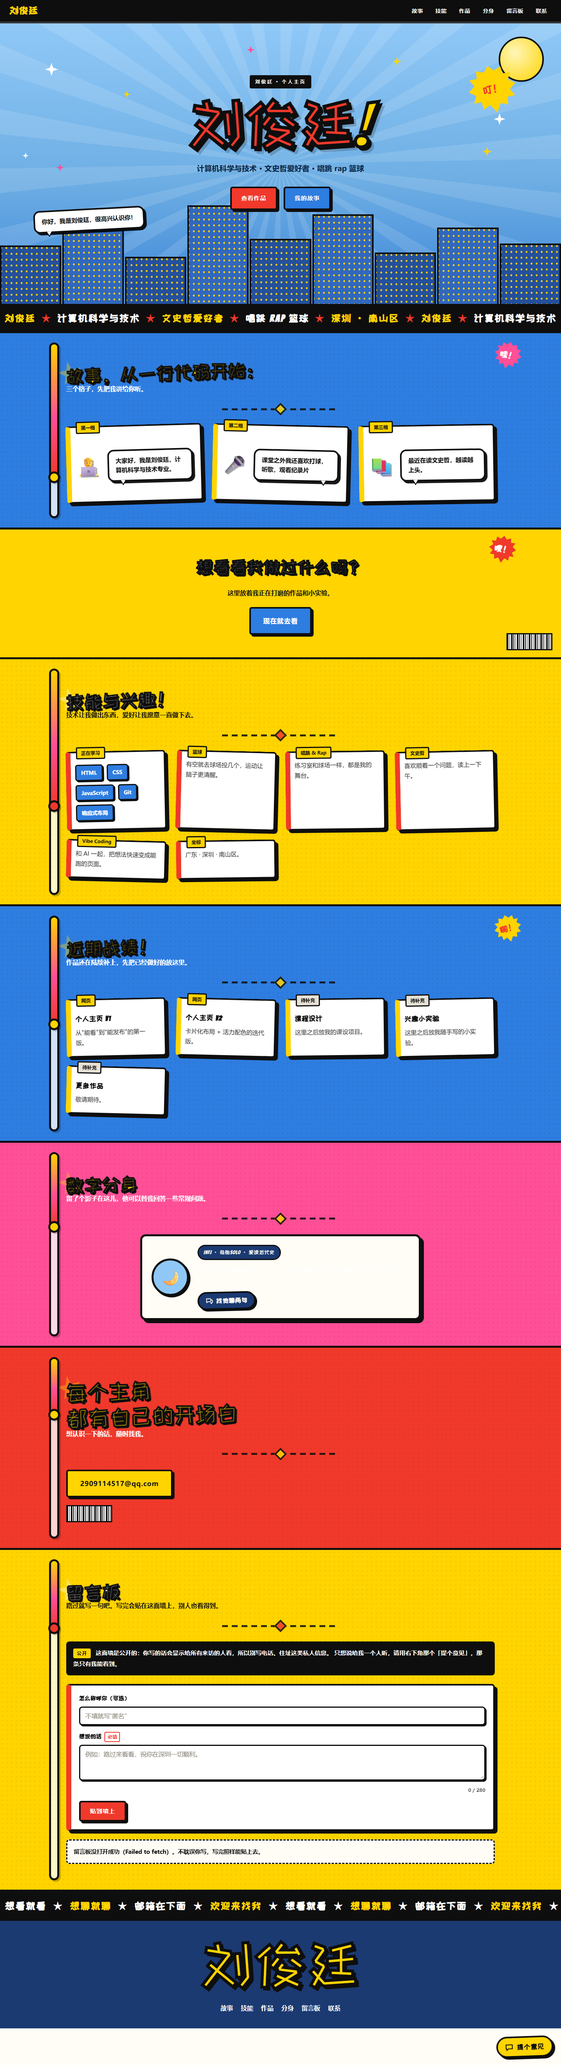
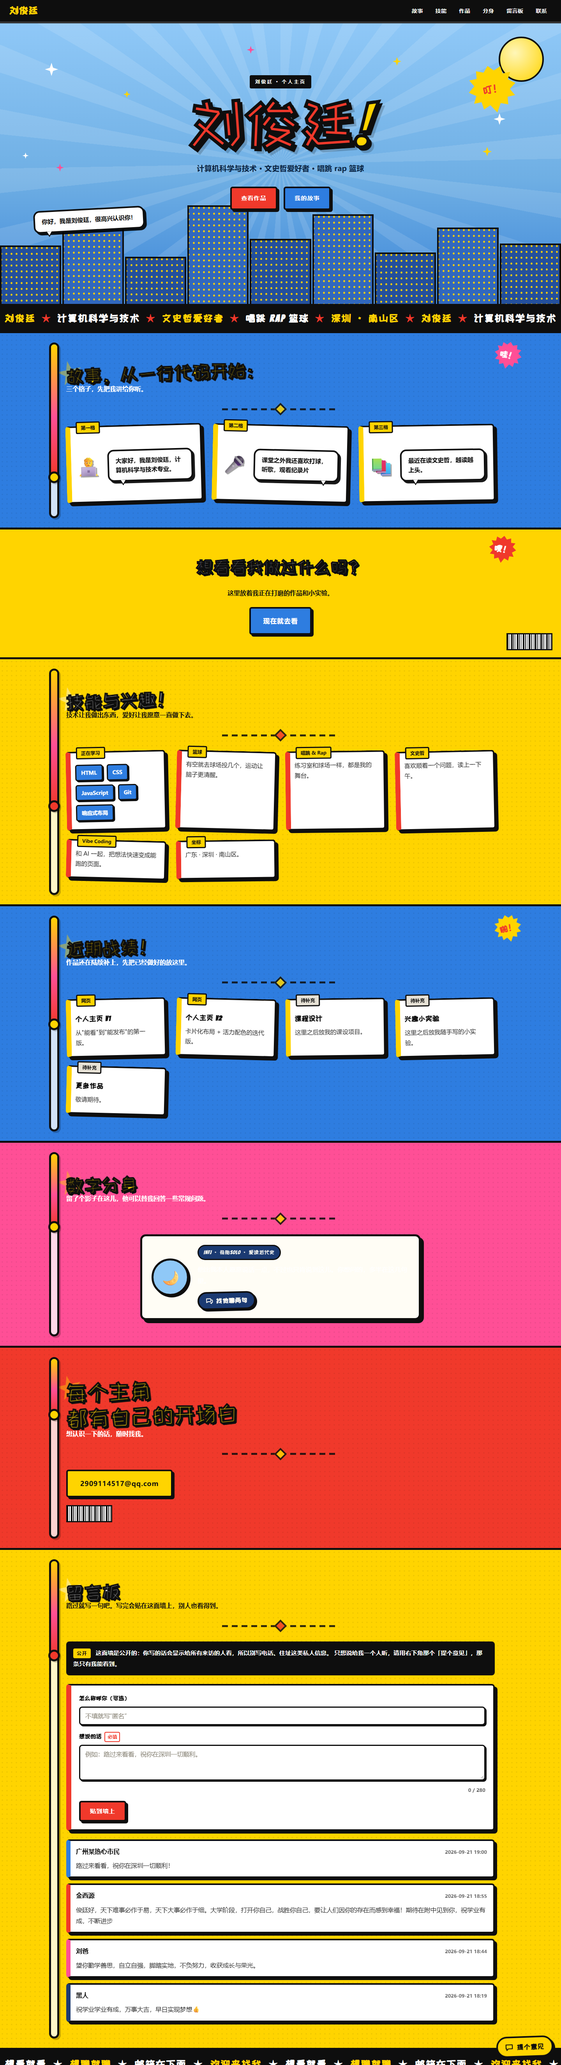
docs: 后端恢复落为事实（留言板 4 条真实留言），5 份文档与报告同步；修 check_board 计数 bug
- Supabase 项目 2026-10-06 恢复：只读复验（DNS 104.18.38.10 / CORS 200 / messages 读 4 行 /
  feedback 匿名写 401）写进文档与报告；C8「根因/解决/验证」改写，决策表 D-08 由「Modify + 待办」
  改为「Modify + 已闭环」
- 反馈口径按事实改写：私有反馈表单 0 条，公开留言板 4 条真实留言（id 5–8，2026-09-21），
  仍不拿自测冒充访客反馈
- tools/check_board.ps1：修 PS 5.1 ConvertFrom-Json 把 JSON 数组当成 1 个对象、导致行数恒为 1 的
  计数 bug（实测 rows = 4，fail = 0）
- 后端恢复后重拍 Before/After 整页图（留言板真实上屏）：v35-full-before.png / v4-full.png
- 报告重生成：报告.html 6/6 图内联；PDF 11 页 / 6 图（两份文件名同时更新）

Changed region(s): [[0.0, 0.8717, 1.0, 1.0], [0.0938, 0.7472, 0.125, 0.8094]]

diff --git a/outputs/报告.html b/outputs/报告.html
@@ -120,9 +120,9 @@ li { margin: 3px 0; }
 <ul>
 <li>现象：留言板和反馈都失败，而浏览器访问其它网站正常。</li>
 <li>排查：页内分别试"普通请求"和 <code>no-cors</code> 请求（两者都 <code>THREW</code> → <strong>不是 CORS</strong>）；域名解析返回 <strong>NXDOMAIN</strong>（同一解析器对 <code>supabase.co</code>、<code>api.supabase.com</code> 均正常，只有项目主机解析不到）。</li>
-<li>根因：项目侧不可达（免费额度闲置被暂停一类），<strong>不是代码问题</strong>。</li>
-<li>解决：① 站点侧先做降级（C7），保证"后台不在也不难看"；② 项目本身由我本人去控制台确认/恢复（不拿推测当结论）；③ 恢复前后只做<strong>只读</strong>复验，不再往公开墙上写测试数据。</li>
-<li>验证（恢复后执行）：CORS 预检 200 / 留言板读 200 / 匿名写反馈仍 401。</li>
+<li>根因：项目侧被暂停（免费额度闲置一类），<strong>不是代码问题</strong>。</li>
+<li>解决：① 站点侧先做降级（C7），保证后台不在时也不难看；② 在 Supabase 控制台恢复项目（不拿推测当结论）；③ 全程只做<strong>只读</strong>复验，不再往公开墙上写测试数据。</li>
+<li>验证（2026-10-06 恢复后实测）：项目主机解析到 <code>104.18.38.10</code>；CORS 预检 200（<code>allow-origin: *</code>）；<code>messages</code> 读 200 共 <strong>4 行</strong>；匿名写 <code>feedback</code> 仍 401；匿名 PATCH / DELETE 均 401；再把页面真机渲染一遍，DOM 里 4 条留言全部上屏、降级提示不再出现。</li>
 </ul>
 <p><strong>C9. 自己的截图工具在慢请求上崩掉（工具 bug）</strong></p>
 <ul>
@@ -133,15 +133,15 @@ li { margin: 3px 0; }
 </ul>
 <p><strong>一条经验总结：</strong> C1、C2 都是"看起来坏了"，先复现再动手，等于省掉了两次无意义的改样式。<strong>验证优先于修改。</strong></p>
 <h2>d) 收集到的反馈与决策</h2>
-<p><strong>来源如实说明：</strong> 反馈入口与服务端于 <strong>2026-10-06 上线</strong>，同日发现项目侧不可达（C8），因此<strong>目前外部反馈为 0 条</strong>。下表是<strong>自测</strong>发现的问题与决策，每条都标了真实来源 —— 不拿自测冒充访客意见。完整表见 <code>docs\V4-反馈决策表.md</code>。</p>
-<table><thead><tr><th>编号</th><th>反馈/发现</th><th>来源</th><th>决定</th><th>理由</th></tr></thead><tbody><tr><td>D-01</td><td>手机端导航、标题被裁</td><td>自测（截图）</td><td><strong>Reject + 改方法</strong></td><td>复现证明是截图工具伪影，站点在真 375 下正常</td></tr><tr><td>D-02</td><td>整页截图首屏异常长</td><td>自测（截图）</td><td><strong>Reject + 改口径</strong></td><td><code>.hero</code> 用 <code>90vh</code> 是设计选择，问题在拍摄方式</td></tr><tr><td>D-03</td><td>作品区口径过时、自相矛盾</td><td>自测</td><td><strong>Accept</strong></td><td>影响面大、改动成本低，与新街区一致性优先</td></tr><tr><td>D-04</td><td>访客看到英文 <code>Failed to fetch</code></td><td>自测</td><td><strong>Accept</strong></td><td>一行级改动，直接改善观感</td></tr><tr><td>D-05</td><td>反馈上报的版本号仍是 V3.5</td><td>自测</td><td><strong>Accept</strong></td><td>不改会让之后所有意见贴错版本</td></tr><tr><td>D-06</td><td>新文案缺字</td><td>自测</td><td><strong>Accept</strong></td><td>重建子集即可，且仍不依赖外部服务</td></tr><tr><td>D-07</td><td>单文件漏内联图片</td><td>自测</td><td><strong>Accept</strong></td><td>离线交付是硬需求，根因在脚本编码</td></tr><tr><td>D-08</td><td>后台不可达</td><td>自测（外部依赖）</td><td><strong>Modify + 待办</strong></td><td>站点侧先降级；项目恢复由我本人处理</td></tr><tr><td>D-09</td><td>手机真机完整提交路径未覆盖</td><td>自测</td><td><strong>Delay</strong></td><td>需要真机 + 恢复后的后台，本轮无法诚实完成</td></tr><tr><td>D-10</td><td>外部访客反馈 0 条</td><td>事实</td><td><strong>Delay</strong></td><td>不编造；入口已就绪，收到即按本表流程处理</td></tr></tbody></table>
+<p><strong>来源如实说明：</strong> 反馈入口与服务端于 <strong>2026-10-06 上线</strong>，同日项目侧一度被暂停（C8），当天在控制台恢复并复验通过。<strong>私有的反馈表单目前 0 条</strong>；<strong>公开留言板上有 4 条真实留言</strong>（<code>id 5–8</code>，2026-09-21 起陆续留下：家人、师长与一位过路访客），我自己的测试留言早已清理。下表是<strong>自测</strong>发现的问题与决策，每条都标了真实来源 —— 不拿自测冒充访客意见。完整表见 <code>docs\V4-反馈决策表.md</code>。</p>
+<table><thead><tr><th>编号</th><th>反馈/发现</th><th>来源</th><th>决定</th><th>理由</th></tr></thead><tbody><tr><td>D-01</td><td>手机端导航、标题被裁</td><td>自测（截图）</td><td><strong>Reject + 改方法</strong></td><td>复现证明是截图工具伪影，站点在真 375 下正常</td></tr><tr><td>D-02</td><td>整页截图首屏异常长</td><td>自测（截图）</td><td><strong>Reject + 改口径</strong></td><td><code>.hero</code> 用 <code>90vh</code> 是设计选择，问题在拍摄方式</td></tr><tr><td>D-03</td><td>作品区口径过时、自相矛盾</td><td>自测</td><td><strong>Accept</strong></td><td>影响面大、改动成本低，与新街区一致性优先</td></tr><tr><td>D-04</td><td>访客看到英文 <code>Failed to fetch</code></td><td>自测</td><td><strong>Accept</strong></td><td>一行级改动，直接改善观感</td></tr><tr><td>D-05</td><td>反馈上报的版本号仍是 V3.5</td><td>自测</td><td><strong>Accept</strong></td><td>不改会让之后所有意见贴错版本</td></tr><tr><td>D-06</td><td>新文案缺字</td><td>自测</td><td><strong>Accept</strong></td><td>重建子集即可，且仍不依赖外部服务</td></tr><tr><td>D-07</td><td>单文件漏内联图片</td><td>自测</td><td><strong>Accept</strong></td><td>离线交付是硬需求，根因在脚本编码</td></tr><tr><td>D-08</td><td>后台不可达</td><td>自测（外部依赖）</td><td><strong>Modify + 已闭环</strong></td><td>站点侧先降级；项目当天恢复，只读复验通过（CORS 200 / 读 4 行 / 写反馈 401）</td></tr><tr><td>D-09</td><td>手机真机完整提交路径未覆盖</td><td>自测</td><td><strong>Delay</strong></td><td>需要真机 + 恢复后的后台，本轮无法诚实完成</td></tr><tr><td>D-10</td><td>反馈表单 0 条（留言板已有 4 条真实留言）</td><td>事实</td><td><strong>Delay</strong></td><td>不编造；入口已就绪，收到即按本表流程处理</td></tr></tbody></table>
 <p><strong>优先级口径：</strong> 影响面（多少人会碰到）× 改动成本（要动几条链路）。D-03 属于"影响高 × 成本低"，所以优先做；懒加载属于"影响低 × 成本高（动导出/同步/截图三条链路）"，因此延后。</p>
 <p><strong>真实反馈进来后怎么走：</strong> ① 先复现（自己能不能看到同样的问题）→ ② 判定类别（看不懂 / 不好找 / 用着别扭 / 内容错）→ ③ 四种决定选一个（Accept / Modify / Delay / Reject，并写明理由）→ ④ 改完跑一遍回归清单 → ⑤ 把结论追加到决策表。</p>
 <h2>e) 回归测试</h2>
 <p><strong>自动化三项（可复跑）：</strong></p>
 <table><thead><tr><th>手段</th><th>结果</th></tr></thead><tbody><tr><td><code>verify_v35.ps1 -SiteOnly</code></td><td>FAIL count = 0（10 组：结构、JS↔HTML 契约、样式、安全等）</td></tr><tr><td><code>sync_site.ps1</code> 同步发布根</td><td>4 项拷完、无残留文件、自动校验 FAIL count = 0（20 个文件）</td></tr><tr><td><code>export_single_file.ps1</code></td><td><code>images ok 4/4 as data URI</code>，产物体积 513909 B</td></tr></tbody></table>
 <p><strong>课件六项（桌面 + 手机）：</strong></p>
-<table><thead><tr><th>项</th><th>结果</th></tr></thead><tbody><tr><td>桌面布局</td><td>真 1440×900 视口（CDP）：8 个区块 + 页脚纵向排列正确，<code>docScrollH=6943</code>、<code>overRight=none</code>；窗口口径下 <code>doc=6858</code></td></tr><tr><td>手机布局</td><td>真 375×812：<code>docScrollW=375</code>、<code>docScrollH=9004</code>、<code>overRight=none</code>、导航换 2 行共 7 项全可见（<code>navScroll=272/272</code>）、首屏标题 <code>x20..355</code></td></tr><tr><td>导航与按钮</td><td>桌面/手机各 7 个导航项全部可点且指向存在；"提个意见"可打开弹窗；留言板按钮文案正确</td></tr><tr><td>图片与链接</td><td>4 张缩略图全部加载（单文件版为 data URI）；邮箱 <code>mailto:</code> 1 处，无其它外链</td></tr><tr><td>反馈表单</td><td>弹窗字段、必填校验、版本号自动附带 V4；留言板必填校验与字数计数正常</td></tr><tr><td>加载速度</td><td>本地 20 个文件全静态，无 CDN、无框架；字体 2 个子集共约 56 KB</td></tr></tbody></table>
+<table><thead><tr><th>项</th><th>结果</th></tr></thead><tbody><tr><td>桌面布局</td><td>真 1440×900 视口（CDP）：8 个区块 + 页脚纵向排列正确，<code>docScrollH=6943</code>、<code>overRight=none</code>；窗口口径下 <code>doc=6858</code></td></tr><tr><td>手机布局</td><td>真 375×812：<code>docScrollW=375</code>、<code>docScrollH=9004</code>、<code>overRight=none</code>、导航换 2 行共 7 项全可见（<code>navScroll=272/272</code>）、首屏标题 <code>x20..355</code></td></tr><tr><td>导航与按钮</td><td>桌面/手机各 7 个导航项全部可点且指向存在；"提个意见"可打开弹窗；留言板按钮文案正确</td></tr><tr><td>图片与链接</td><td>4 张缩略图全部加载（单文件版为 data URI）；邮箱 <code>mailto:</code> 1 处，无其它外链</td></tr><tr><td>反馈表单</td><td>弹窗字段、必填校验、版本号自动附带 V4；留言板必填校验与字数计数正常；真机渲染下 4 条真实留言全部上屏、降级提示消失（<code>check_board.ps1</code> fail=0 / rows=4，页内 DOM 4/4）</td></tr><tr><td>加载速度</td><td>本地 20 个文件全静态，无 CDN、无框架；字体 2 个子集共约 56 KB</td></tr></tbody></table>
 <p><strong>未覆盖（如实说明）：</strong> 手机真机完整提交路径（D-09）、弱网/低速网络的性能实测、后台恢复后的真实提交（只做只读复验）。详细清单见 <code>docs\V4-回归测试清单.md</code>。</p>
 <h2>f) 版本记录与可回退点</h2>
 <table><thead><tr><th>版本</th><th>提交</th><th>可回退方式</th></tr></thead><tbody><tr><td>V1</td><td><code>f7aa66e</code></td><td><code>git checkout f7aa66e</code></td></tr><tr><td>V2</td><td><code>4062811</code></td><td><code>git checkout 4062811</code></td></tr><tr><td>V3</td><td><code>dcdb257</code></td><td><code>git checkout dcdb257</code></td></tr><tr><td>V3.5</td><td><code>6bb6ec2</code></td><td><code>git checkout 6bb6ec2</code></td></tr><tr><td><strong>V4</strong></td><td><strong><code>7a76419</code></strong></td><td>当前 <code>main</code></td></tr></tbody></table>
@@ -150,9 +150,9 @@ li { margin: 3px 0; }
 <ul>
 <li><strong>有价值的改动</strong>是让"过程"可被看见的那两件：迭代历程区块、版本号单一来源；不是"改了更多地方"。</li>
 <li><strong>差点做错的</strong>是 C1/C2：两次都准备改样式，先复现才发现错在测量工具。最值钱的经验是"先复现，再动手"。</li>
-<li><strong>卡点</strong>前三名：看不到真相（截图工具两次骗我）、编码陷阱（PS 5.1 把无 BOM 脚本按 ANSI 解析）、外部依赖说没就没（后台被暂停）。后者说明"能演示"和"能用"是两回事，页面必须有降级路径。</li>
+<li><strong>卡点</strong>前三名：看不到真相（截图工具两次骗我）、编码陷阱（PS 5.1 把无 BOM 脚本按 ANSI 解析）、外部依赖说没就没（后台被暂停）。第三件当天恢复并复验通过，但它说明「能演示」和「能用」是两回事，页面必须有降级路径。</li>
 <li><strong>"真的更好了"靠证据</strong>：可复跑的校验 + 同口径 Before/After，而不是"看着顺眼"。</li>
-<li><strong>外部反馈仍是 0 条</strong>，我把它写在明面上而不是拿自测凑数 —— 这是本轮最大的待补缺口。</li>
+<li><strong>反馈表单仍是 0 条</strong>（公开留言板倒是有 4 条真实留言），我把它写在明面上而不是拿自测凑数 —— 这是本轮最大的待补缺口。</li>
 </ul>
 <p>完整的五问反思见 <code>docs\V4-反思.md</code>。</p>
 <h2>h) 附录</h2>

diff --git a/outputs/个人主页-V1到V4-总汇总.md b/outputs/个人主页-V1到V4-总汇总.md
@@ -131,9 +131,9 @@
 **C8. 后台本身连不上了（外部依赖）**
 - 现象：留言板和反馈都失败，而浏览器访问其它网站正常。
 - 排查：页内分别试"普通请求"和 `no-cors` 请求（两者都 `THREW` → **不是 CORS**）；域名解析返回 **NXDOMAIN**（同一解析器对 `supabase.co`、`api.supabase.com` 均正常，只有项目主机解析不到）。
-- 根因：项目侧不可达（免费额度闲置被暂停一类），**不是代码问题**。
-- 解决：① 站点侧先做降级（C7），保证"后台不在也不难看"；② 项目本身由我本人去控制台确认/恢复（不拿推测当结论）；③ 恢复前后只做**只读**复验，不再往公开墙上写测试数据。
-- 验证（恢复后执行）：CORS 预检 200 / 留言板读 200 / 匿名写反馈仍 401。
+- 根因：项目侧被暂停（免费额度闲置一类），**不是代码问题**。
+- 解决：① 站点侧先做降级（C7），保证后台不在时也不难看；② 在 Supabase 控制台恢复项目（不拿推测当结论）；③ 全程只做**只读**复验，不再往公开墙上写测试数据。
+- 验证（2026-10-06 恢复后实测）：项目主机解析到 `104.18.38.10`；CORS 预检 200（`allow-origin: *`）；`messages` 读 200 共 **4 行**；匿名写 `feedback` 仍 401；匿名 PATCH / DELETE 均 401；再把页面真机渲染一遍，DOM 里 4 条留言全部上屏、降级提示不再出现。
 
 **C9. 自己的截图工具在慢请求上崩掉（工具 bug）**
 - 现象：跑"页内等 3 秒"的探针时，CDP 客户端抛 `AggregateException`。
@@ -145,7 +145,7 @@
 
 ## d) 收集到的反馈与决策
 
-**来源如实说明：** 反馈入口与服务端于 **2026-10-06 上线**，同日发现项目侧不可达（C8），因此**目前外部反馈为 0 条**。下表是**自测**发现的问题与决策，每条都标了真实来源 —— 不拿自测冒充访客意见。完整表见 `docs\V4-反馈决策表.md`。
+**来源如实说明：** 反馈入口与服务端于 **2026-10-06 上线**，同日项目侧一度被暂停（C8），当天在控制台恢复并复验通过。**私有的反馈表单目前 0 条**；**公开留言板上有 4 条真实留言**（`id 5–8`，2026-09-21 起陆续留下：家人、师长与一位过路访客），我自己的测试留言早已清理。下表是**自测**发现的问题与决策，每条都标了真实来源 —— 不拿自测冒充访客意见。完整表见 `docs\V4-反馈决策表.md`。
 
 | 编号 | 反馈/发现 | 来源 | 决定 | 理由 |
 | --- | --- | --- | --- | --- |
@@ -156,9 +156,9 @@
 | D-05 | 反馈上报的版本号仍是 V3.5 | 自测 | **Accept** | 不改会让之后所有意见贴错版本 |
 | D-06 | 新文案缺字 | 自测 | **Accept** | 重建子集即可，且仍不依赖外部服务 |
 | D-07 | 单文件漏内联图片 | 自测 | **Accept** | 离线交付是硬需求，根因在脚本编码 |
-| D-08 | 后台不可达 | 自测（外部依赖） | **Modify + 待办** | 站点侧先降级；项目恢复由我本人处理 |
+| D-08 | 后台不可达 | 自测（外部依赖） | **Modify + 已闭环** | 站点侧先降级；项目当天恢复，只读复验通过（CORS 200 / 读 4 行 / 写反馈 401） |
 | D-09 | 手机真机完整提交路径未覆盖 | 自测 | **Delay** | 需要真机 + 恢复后的后台，本轮无法诚实完成 |
-| D-10 | 外部访客反馈 0 条 | 事实 | **Delay** | 不编造；入口已就绪，收到即按本表流程处理 |
+| D-10 | 反馈表单 0 条（留言板已有 4 条真实留言） | 事实 | **Delay** | 不编造；入口已就绪，收到即按本表流程处理 |
 
 **优先级口径：** 影响面（多少人会碰到）× 改动成本（要动几条链路）。D-03 属于"影响高 × 成本低"，所以优先做；懒加载属于"影响低 × 成本高（动导出/同步/截图三条链路）"，因此延后。
 
@@ -182,7 +182,7 @@
 | 手机布局 | 真 375×812：`docScrollW=375`、`docScrollH=9004`、`overRight=none`、导航换 2 行共 7 项全可见（`navScroll=272/272`）、首屏标题 `x20..355` |
 | 导航与按钮 | 桌面/手机各 7 个导航项全部可点且指向存在；"提个意见"可打开弹窗；留言板按钮文案正确 |
 | 图片与链接 | 4 张缩略图全部加载（单文件版为 data URI）；邮箱 `mailto:` 1 处，无其它外链 |
-| 反馈表单 | 弹窗字段、必填校验、版本号自动附带 V4；留言板必填校验与字数计数正常 |
+| 反馈表单 | 弹窗字段、必填校验、版本号自动附带 V4；留言板必填校验与字数计数正常；真机渲染下 4 条真实留言全部上屏、降级提示消失（`check_board.ps1` fail=0 / rows=4，页内 DOM 4/4） |
 | 加载速度 | 本地 20 个文件全静态，无 CDN、无框架；字体 2 个子集共约 56 KB |
 
 **未覆盖（如实说明）：** 手机真机完整提交路径（D-09）、弱网/低速网络的性能实测、后台恢复后的真实提交（只做只读复验）。详细清单见 `docs\V4-回归测试清单.md`。
@@ -203,9 +203,9 @@
 
 - **有价值的改动**是让"过程"可被看见的那两件：迭代历程区块、版本号单一来源；不是"改了更多地方"。
 - **差点做错的**是 C1/C2：两次都准备改样式，先复现才发现错在测量工具。最值钱的经验是"先复现，再动手"。
-- **卡点**前三名：看不到真相（截图工具两次骗我）、编码陷阱（PS 5.1 把无 BOM 脚本按 ANSI 解析）、外部依赖说没就没（后台被暂停）。后者说明"能演示"和"能用"是两回事，页面必须有降级路径。
+- **卡点**前三名：看不到真相（截图工具两次骗我）、编码陷阱（PS 5.1 把无 BOM 脚本按 ANSI 解析）、外部依赖说没就没（后台被暂停）。第三件当天恢复并复验通过，但它说明「能演示」和「能用」是两回事，页面必须有降级路径。
 - **"真的更好了"靠证据**：可复跑的校验 + 同口径 Before/After，而不是"看着顺眼"。
-- **外部反馈仍是 0 条**，我把它写在明面上而不是拿自测凑数 —— 这是本轮最大的待补缺口。
+- **反馈表单仍是 0 条**（公开留言板倒是有 4 条真实留言），我把它写在明面上而不是拿自测凑数 —— 这是本轮最大的待补缺口。
 
 完整的五问反思见 `docs\V4-反思.md`。
 

diff --git a/docs/V4-反馈决策表.md b/docs/V4-反馈决策表.md
@@ -2,7 +2,7 @@
 
 ## 〇、先说清楚来源（这一节很重要）
 
-本站的反馈入口与留言板是 V4 才上线的，**截至 2026-10-06 还没有收到任何外部访客的反馈**（真后端查询结果为 0 条，我自己的测试数据已清理干净）。
+本站的反馈入口（V4）与留言板（V3.5）上线以来：**私有的反馈表单收到 0 条**（真后端查询，我自己的测试数据已清理干净）；**公开留言板上有 4 条真实留言**（`id 5–8`，2026-09-21 起：家人、师长与一位过路访客）—— 那不是对本轮改动的反馈，但确实是「有人来过」的证据。
 
 所以下表的条目**不冒充访客反馈**：每一条都标注真实来源，其中绝大多数是**我自己的复现与自测**（桌面 1440 视口、手机 375 视口、代码走查、发布前检查清单）。等真实的同伴互测意见进来，直接往这张表里追加行即可 —— 表的列就是为追加设计的。
 
@@ -26,9 +26,9 @@
 | D-05 | 自测·代码 | 反馈数据里记录的版本号还是 `V3.5` | 数据正确性 | **真问题** | 中 × 低 | **Accept** | 版本号只留一个来源（`feedback-config.js` 的 `siteVersion`），改一处即全站一致；否则以后收集到的意见会贴在错误的版本上。 | `verify` 契约检查 + 表单隐藏字段 `#fbVersion` 值 = `V4` |
 | D-06 | 自测·发布前 | 新文案里的汉字不在字体子集内，会掉字形回退到系统字体 | 呈现 | **真问题** | 中 × 低 | **Accept** | 站点用的是自托管的显示字体，子集是按页面实际用字生成的；改了文案就必须重新生成子集。 | 子集 430 → 432 字、44952 B，页面渲染核对 |
 | D-07 | 自测·发布前 | 单文件版导出后图片内联不全，离线打开会断图 | 交付物 / 工具 | **真问题** | 中 × 中 | **Accept** | 排查到根因不是图片而是脚本本身：PowerShell 5.1 把无 BOM 的 `.ps1` 按 ANSI 解析，中文注释吞掉了后面的语句。脚本改成纯 ASCII 并在内联前后做数量校验（不符即中止，不写文件）。 | 重新导出：`images ok 4/4 as data URI` |
-| D-08 | 自测·代码 | 留言板 / 反馈表单依赖的 Supabase 项目不可达（域名已解析不到） | 依赖 / 可用性 | **真问题，且不在我这边** | 高 × 取决于账号侧 | **Modify**（站点侧降级）+ 待办（恢复项目） | 站点侧能做的就是"别让访客看到坏状态"：中文友好提示 + 复制/邮件兜底通道，保证没有后端时仍然能联系到我。项目本身需要在 Supabase 控制台恢复。 | 恢复后复验：CORS 预检 200、`messages` 读 200、匿名写 `feedback` 仍 401 |
+| D-08 | 自测·代码 | 留言板 / 反馈表单依赖的 Supabase 项目不可达（域名已解析不到） | 依赖 / 可用性 | **真问题，且不在我这边** | 高 × 取决于账号侧 | **Modify**（站点侧降级）+ 已闭环（项目当天恢复） | 站点侧能做的就是「别让访客看到坏状态」：中文友好提示 + 复制/邮件兜底通道，保证没有后端时仍能联系到我。项目在控制台恢复后只读复验通过：解析成功（`104.18.38.10`）、CORS 预检 200、`messages` 读 200（4 行）、匿名写 `feedback` 401、匿名 PATCH/DELETE 401；页面真机渲染 4/4 条留言上屏、降级提示消失。 |
 | D-09 | 自测·已知缺口 | 没有在真手机上走通"提交留言"的完整路径 | 验证覆盖 | 已知缺口 | 中 × 中 | **Delay** | 手上没有真机，先用真视口（375×812）+ 真后端接口复验代替；等有同伴用真机帮我点一遍再补上。**不把"接口能通"写成"真机验过"。** | 已在 CDP 375 视口下验过表单可点、布局不破 |
-| D-10 | 自测·发布前 | 目前收到 0 条外部反馈 | 反馈闭环 | 待收集 | — | **Delay** | 入口刚上线且后端暂停，没有反馈是事实，不编造。入口留着，收到就按这张表追加。 | 真后端查询行数 = 0 |
+| D-10 | 自测·发布前 | 目前收到 0 条外部反馈（留言板上另有 4 条真实留言，非本轮反馈） | 反馈闭环 | 待收集 | — | **Delay** | 入口刚上线，没有反馈是事实，不编造。入口留着，收到就按这张表追加。 | 真后端查询行数 = 0 |
 
 ## 二、这次**没有**做的改动（以及为什么）
 

diff --git a/docs/V4-反思.md b/docs/V4-反思.md
@@ -23,7 +23,7 @@
 
 - **最大的坑是"看不到真相"。** 截图工具骗了我两次（裁切、90vh 撑高）。这两次的共同教训是：**先证明测量工具可信，再相信测量结果。** 后来我用 CDP 设备模拟拿真视口、用探针直接读几何数据，才把"看起来坏了"和"真的坏了"分开。
 - **第二个坑是编码。** 单文件导出漏内联图片，查到最后不是图片的问题，而是 PowerShell 5.1 把无 BOM 的 `.ps1` 按 ANSI 解析，中文注释吞掉了后面的赋值语句。脚本改成纯 ASCII 并在内联前后做数量校验（不符即中止、不写文件）后才稳定。
-- **第三个坑是外部依赖说没就没。** 留言板和反馈表单依赖的 Supabase 项目在提交前几天不可达了（域名解析不到，多半是免费额度闲置被暂停）。教训：**"能演示"和"能用"是两回事**，页面必须有"后端不在时也不难看"的降级路径。
+- **第三个坑是外部依赖说没就没。** 留言板和反馈表单依赖的 Supabase 项目在提交前几天不可达了（域名解析不到，多半是免费额度闲置被暂停）。当天去控制台恢复并只读复验通过，但教训留下了：**「能演示」和「能用」是两回事**，页面必须有「后端不在时也不难看」的降级路径。
 
 ## 3. 我怎么知道它真的更好了？
 
@@ -49,5 +49,5 @@
 
 ## 5. 反馈有没有改变我原来的想法？
 
-- **外部反馈目前是 0 条**（入口刚上线，后端又停了）。我没有拿自测冒充访客反馈，决策表里每条都标了真实来源 —— 这本身是个待补的缺口，我把它写在明面上。
+- **反馈表单目前是 0 条**（公开留言板已有 4 条真实留言，但那是「有人来过」，不等于对本轮改动的反馈）。我没有拿自测冒充访客反馈，决策表里每条都标了真实来源 —— 这本身是个待补的缺口，我把它写在明面上。
 - 但这轮**确实被"复现"改变过一次想法**：我本来认定手机端有毛病，复现之后改成"是我的验收方法有毛病"。这是这次最值钱的一条经验：**先复现，再动手；验证优先于修改。**

diff --git a/docs/V4-回归测试清单.md b/docs/V4-回归测试清单.md
@@ -64,8 +64,8 @@
 | 版本号 | 表单隐藏字段 `version` = **`V4`**（来源 `siteVersion`） |
 | 前端直连 | `fetch` → PostgREST，`AbortController` 12000 ms 超时，失败不清空输入 |
 | 后端权限（**早前验收时的结果**，本轮未重跑） | 匿名写 `feedback` 允许（INSERT）、读 401；改/删 401；留言板读 200、写 201、改删 401 |
-| 后端当前状态 | **项目不可达（域名解析不到）**：页面显示「留言板没打开成功（网络好像不通）」，英文原始报错不再上屏；复制/邮件兜底可用 |
-| 结果 | 前端 **通过**；后端 **待恢复**（见决策表 D-08） |
+| 后端当前状态 | **已恢复（2026-10-06）**：项目主机解析成功、CORS 预检 200、`messages` 读 200（4 行）、匿名写 `feedback` 401、匿名 PATCH/DELETE 401；页面真机渲染 4 条真实留言全部上屏、降级提示不再出现 |
+| 结果 | 前端 **通过**；后端 **通过**（只读复验，见决策表 D-08） |
 
 ### 6. 加载速度 / 静态资源
 | 项 | 实测 |

diff --git a/docs/V3.5→V4-迭代记录.md b/docs/V3.5→V4-迭代记录.md
@@ -42,4 +42,4 @@
 
 - 迭代区块的 4 张缩略图是**静态文件**，站点再次改版时需要重新生成 `iter-v4.jpg`，否则区块里的"当前版本"图会过期。
 - 手机端只在 CDP 模拟的 375×812 上验过，没有真机验证。
-- 留言板 / 反馈表单依赖 Supabase 项目，项目暂停或删除时功能不可用（页面会显示中文友好提示，并保留"复制 + 邮件"兜底通道）。
+- 留言板 / 反馈表单依赖 Supabase 项目，项目暂停或删除时功能不可用（页面会显示中文友好提示，并保留「复制 + 邮件」兜底通道）。2026-10-06：该项目曾一度不可达（见报告 C8），当天在控制台恢复并只读复验通过。
